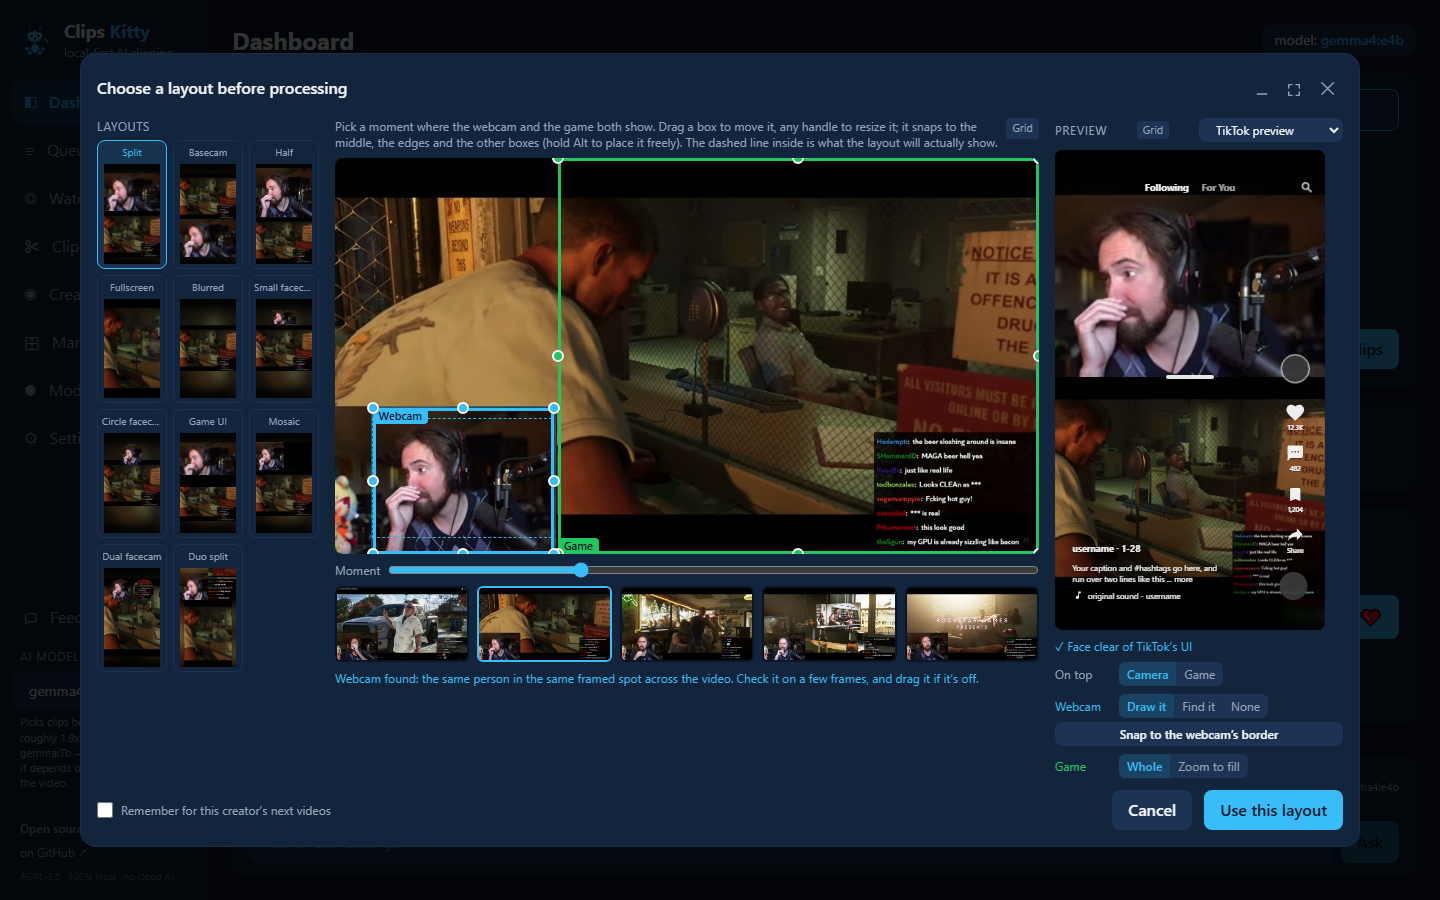
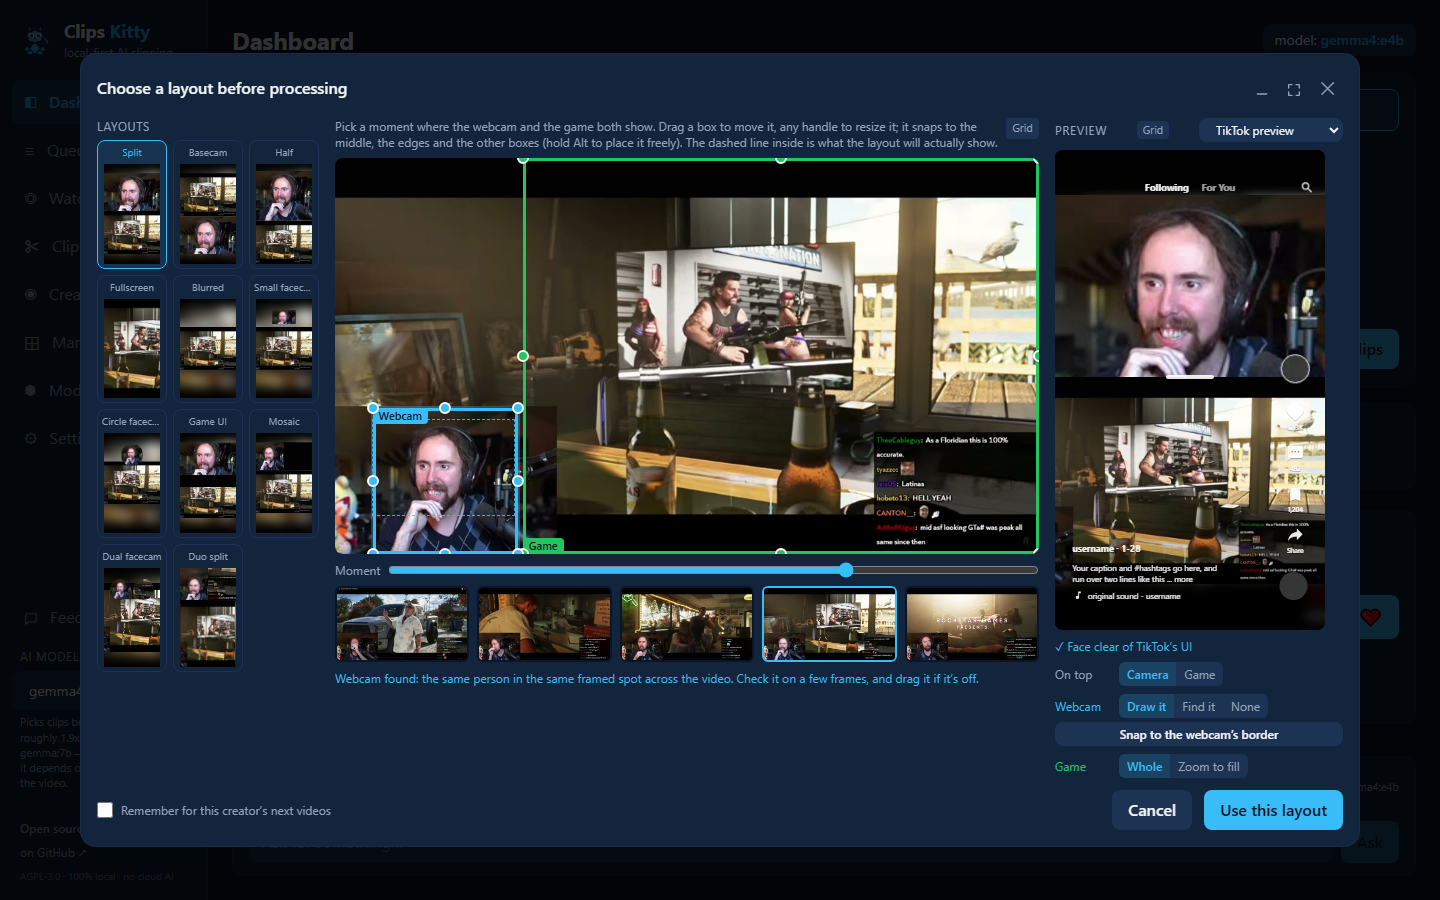
Center the webcam in the gaming layout screenshot

Changed region(s): [[0.0625, 0.1867, 0.9375, 0.6533], [0.0625, 0.6222, 0.1875, 0.7467], [0.875, 0.1867, 0.9062, 0.2178]]

diff --git a/README.md b/README.md
@@ -79,6 +79,8 @@ there is no cap on how many clips you make.
 
 <a href="docs/GAMING.md"><img src="docs/store-screenshots/gaming-layout.png" width="100%" alt="Clips Kitty's Gaming / Reaction layout picker, with adjustable Webcam and Game boxes, layout presets, and a vertical clip preview"></a>
 
+<sub>Frame your webcam and game, then preview the vertical clip before generating it.</sub>
+
 ---
 
 ## Contents
